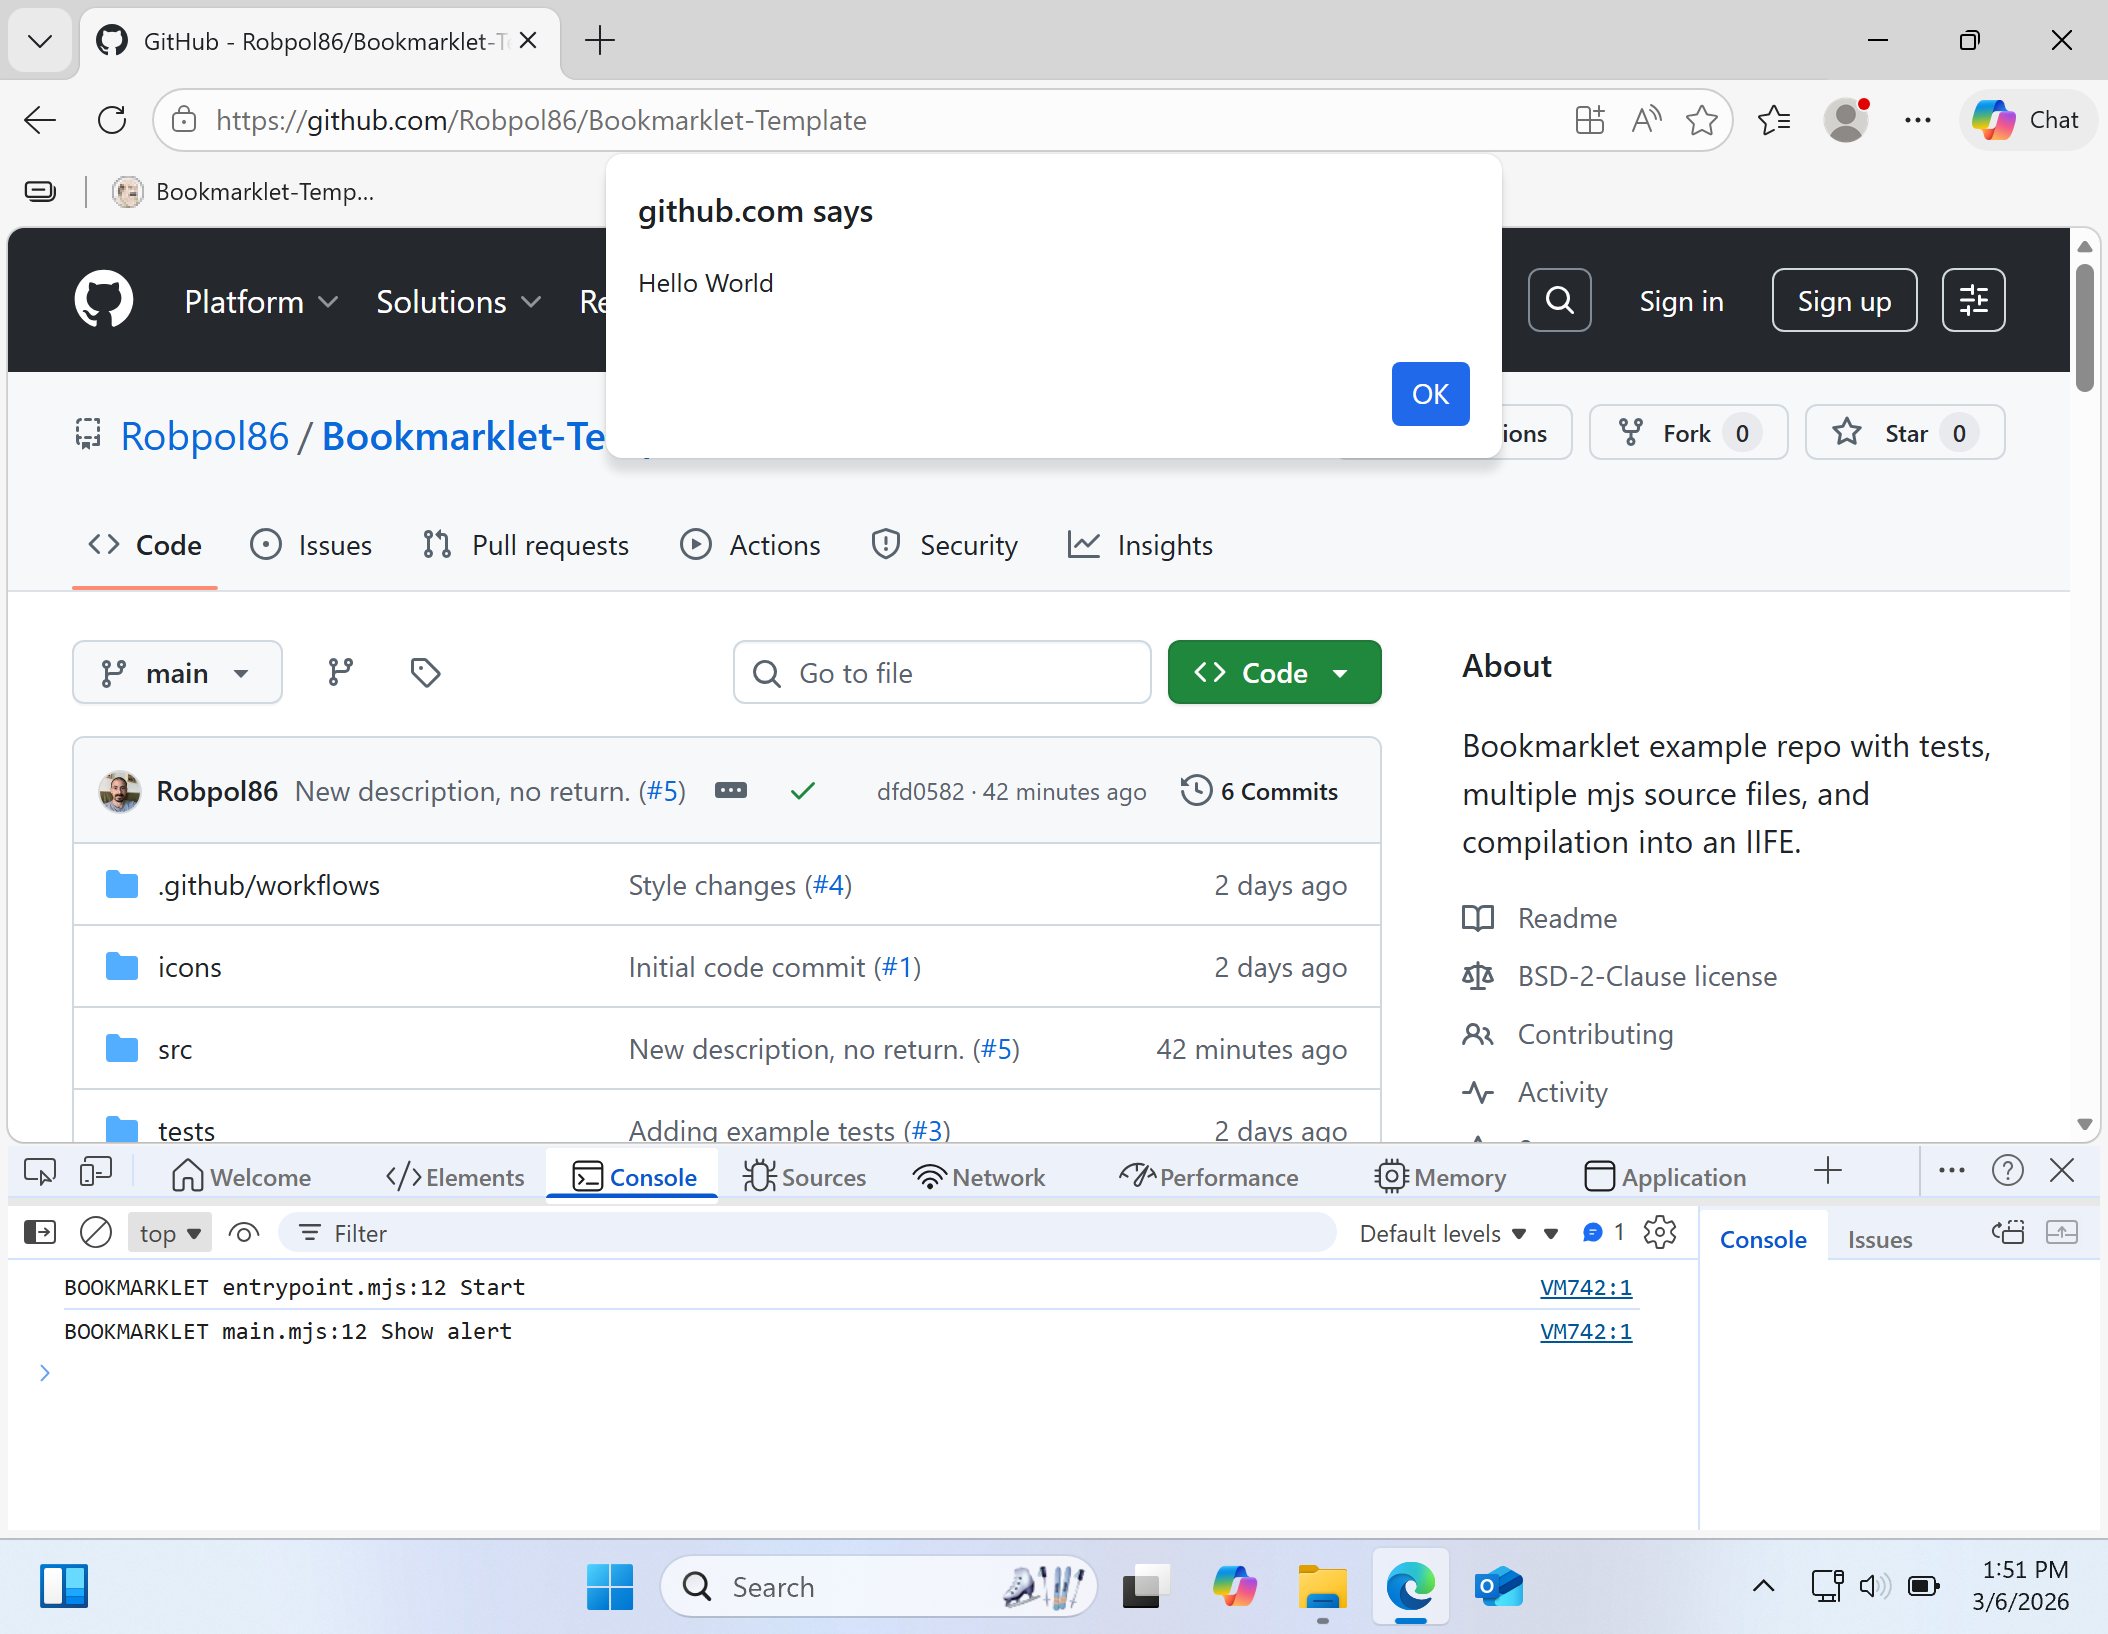
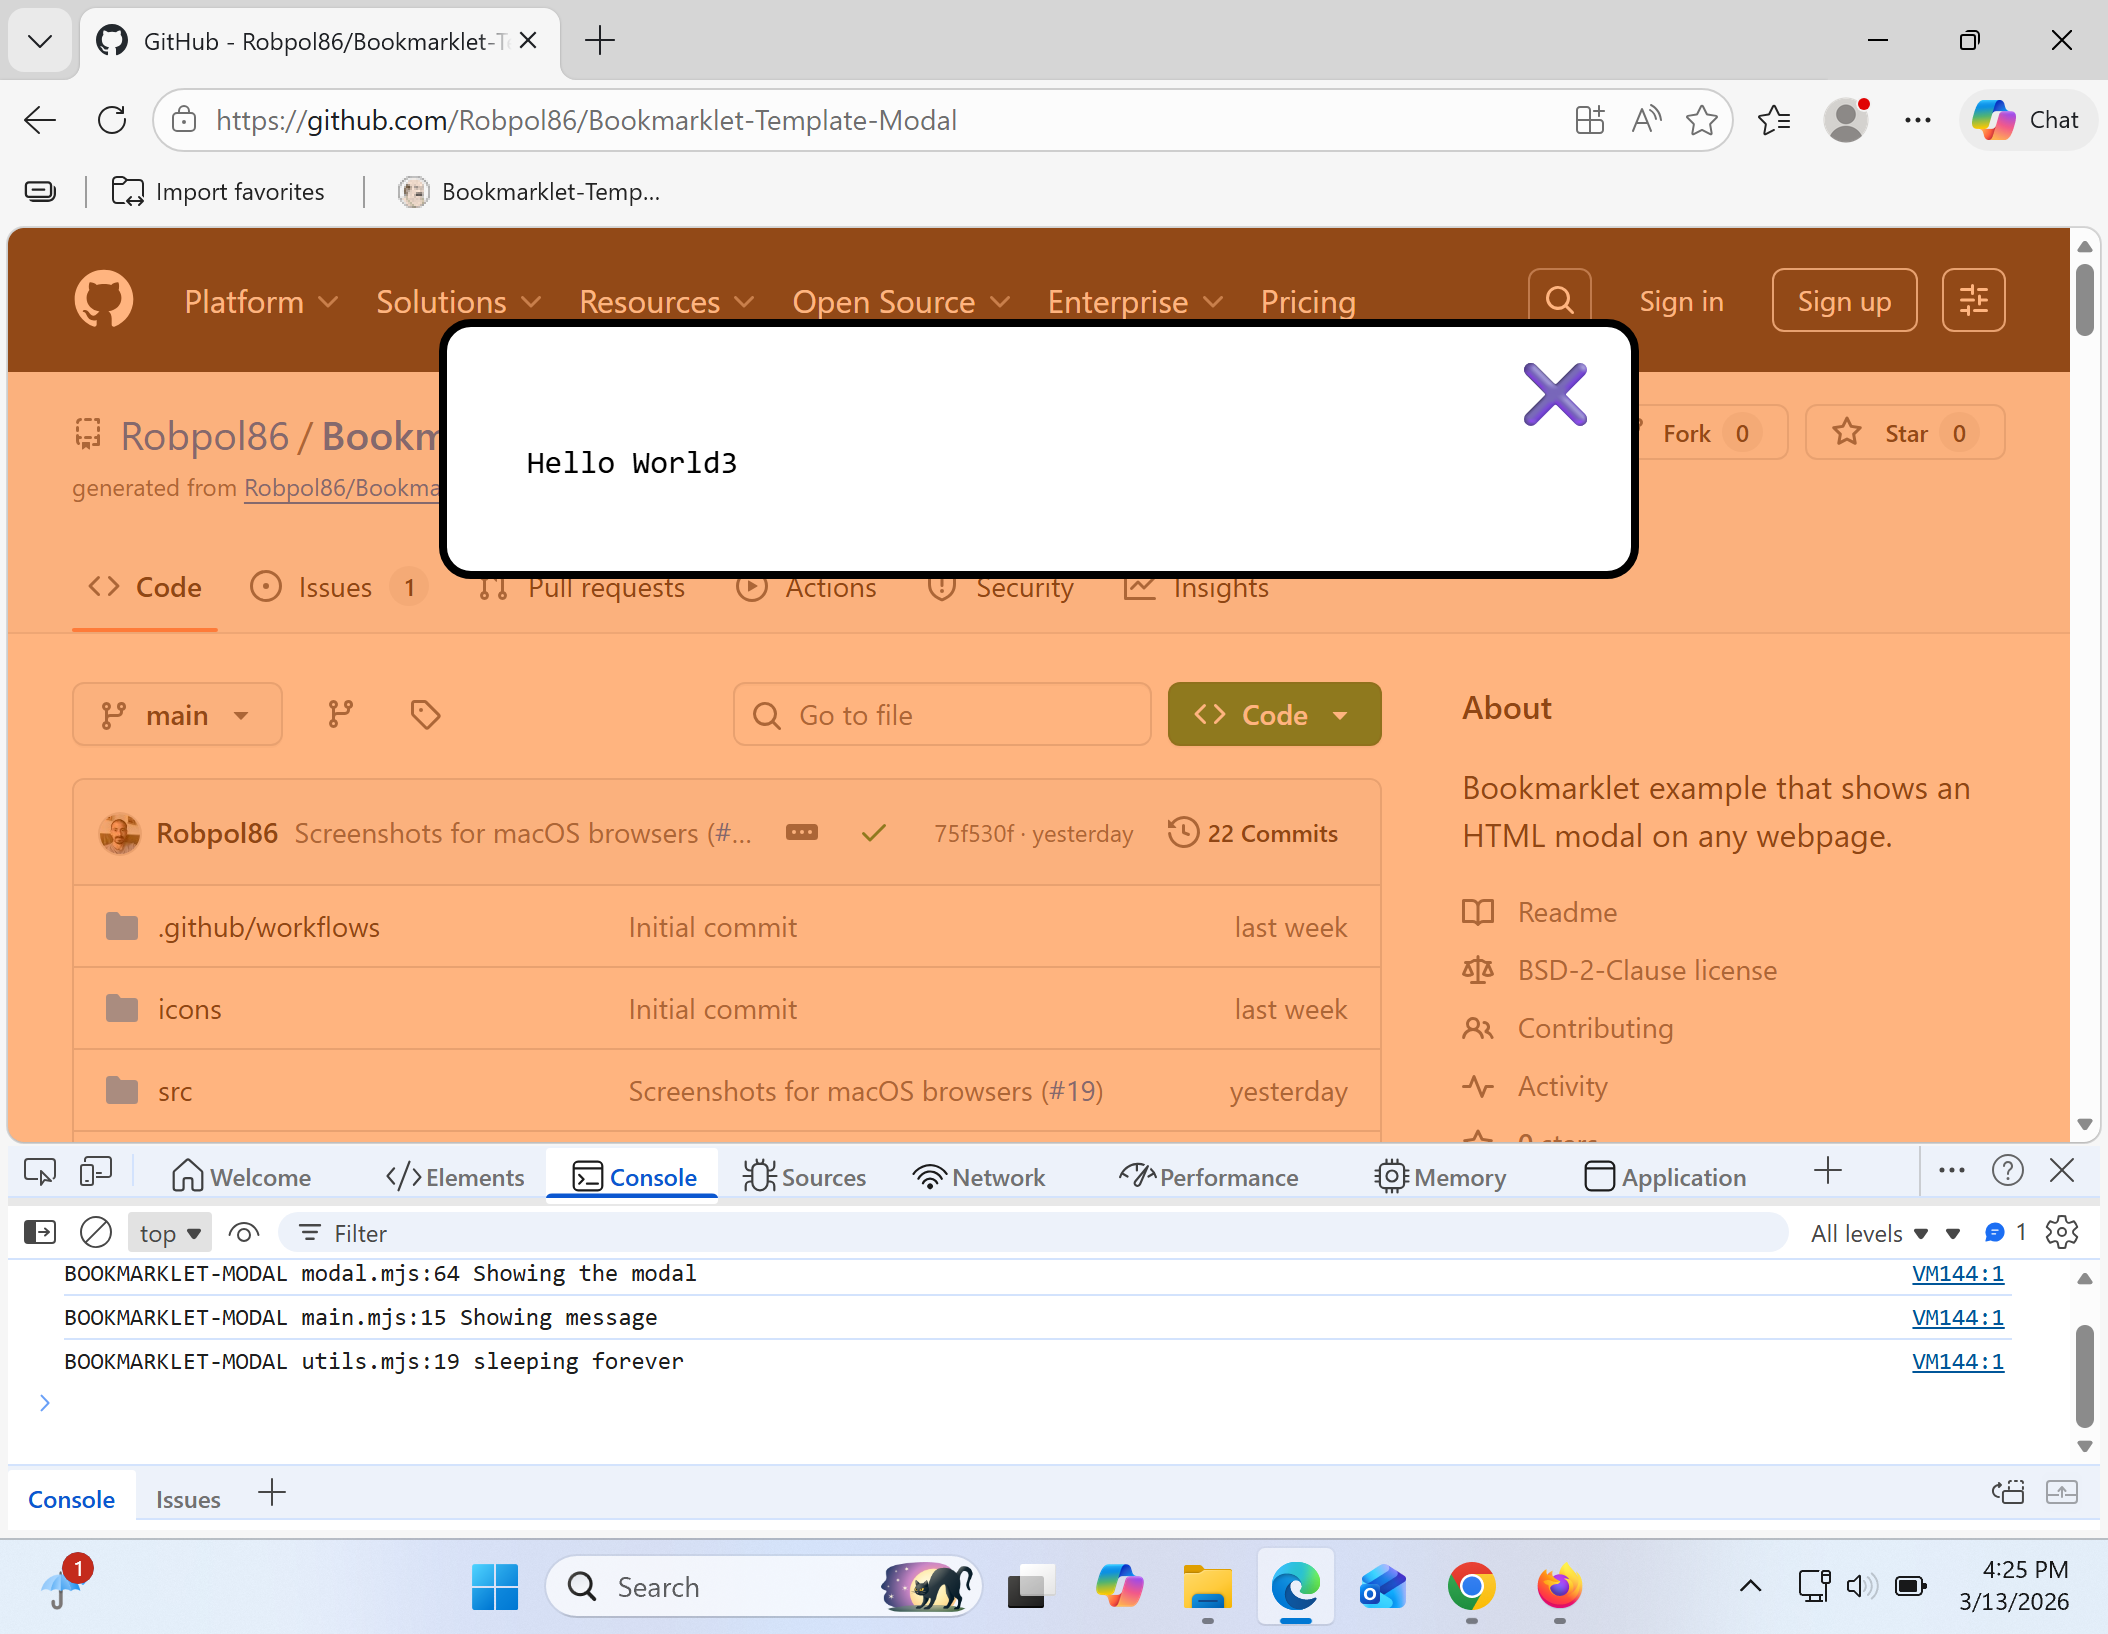
Fix modal on mobile browsers (#22)
* Edge

* Fixed in Chrome on iOS

* TODO: new screenshots everywhere

* typo

* relock

* relock

* Fully relock

* revert

* current build time

* revert

* New screens

* Safari macos

* iphone

* revert, out of scope

diff --git a/src/modal.scss b/src/modal.scss
@@ -21,7 +21,7 @@ $body: "div##{$prefix}dialog-body";
 
 #{$dialog} {
     // Sizing
-    min-width: 600px;
+    min-width: min(600px, 100vw - 2rem);
     max-width: 900px;
     max-height: 80vh;
     // Positioning

diff --git a/README.md b/README.md
@@ -113,14 +113,14 @@ document.
 There are three ways to install the bookmarklet:
 
 1. Import the
-   [dist/bookmarklets.html](https://github.com/Robpol86/Bookmarklet-Template-Modal/releases/latest/download/bookmarklet.html)
+   [dist/bookmarklet.html](https://github.com/Robpol86/Bookmarklet-Template-Modal/releases/latest/download/bookmarklet.html)
    file using the browser's bookmarks manager (in Chrome and Edge the bookmarklet will have its own favicon)
 2. Manually crearte a new bookmark with the contents of
-   [dist/bookmarklets.js](https://github.com/Robpol86/Bookmarklet-Template-Modal/releases/latest/download/bookmarklet.js) as
+   [dist/bookmarklet.js](https://github.com/Robpol86/Bookmarklet-Template-Modal/releases/latest/download/bookmarklet.js) as
    the URL
 3. On a webpage make the bookmarklet an `<a href="...">Bookmarklet</a>` link so the user can drag and drop it into their bookmarks
    bar (replace `...` with the contents of
-   [dist/bookmarklets.js](https://github.com/Robpol86/Bookmarklet-Template-Modal/releases/latest/download/bookmarklet.js))
+   [dist/bookmarklet.js](https://github.com/Robpol86/Bookmarklet-Template-Modal/releases/latest/download/bookmarklet.js))
    1. This doesn't work from a GitHub README file
 
 ![Screenshot](install-html.png?raw=true "Screenshot")
